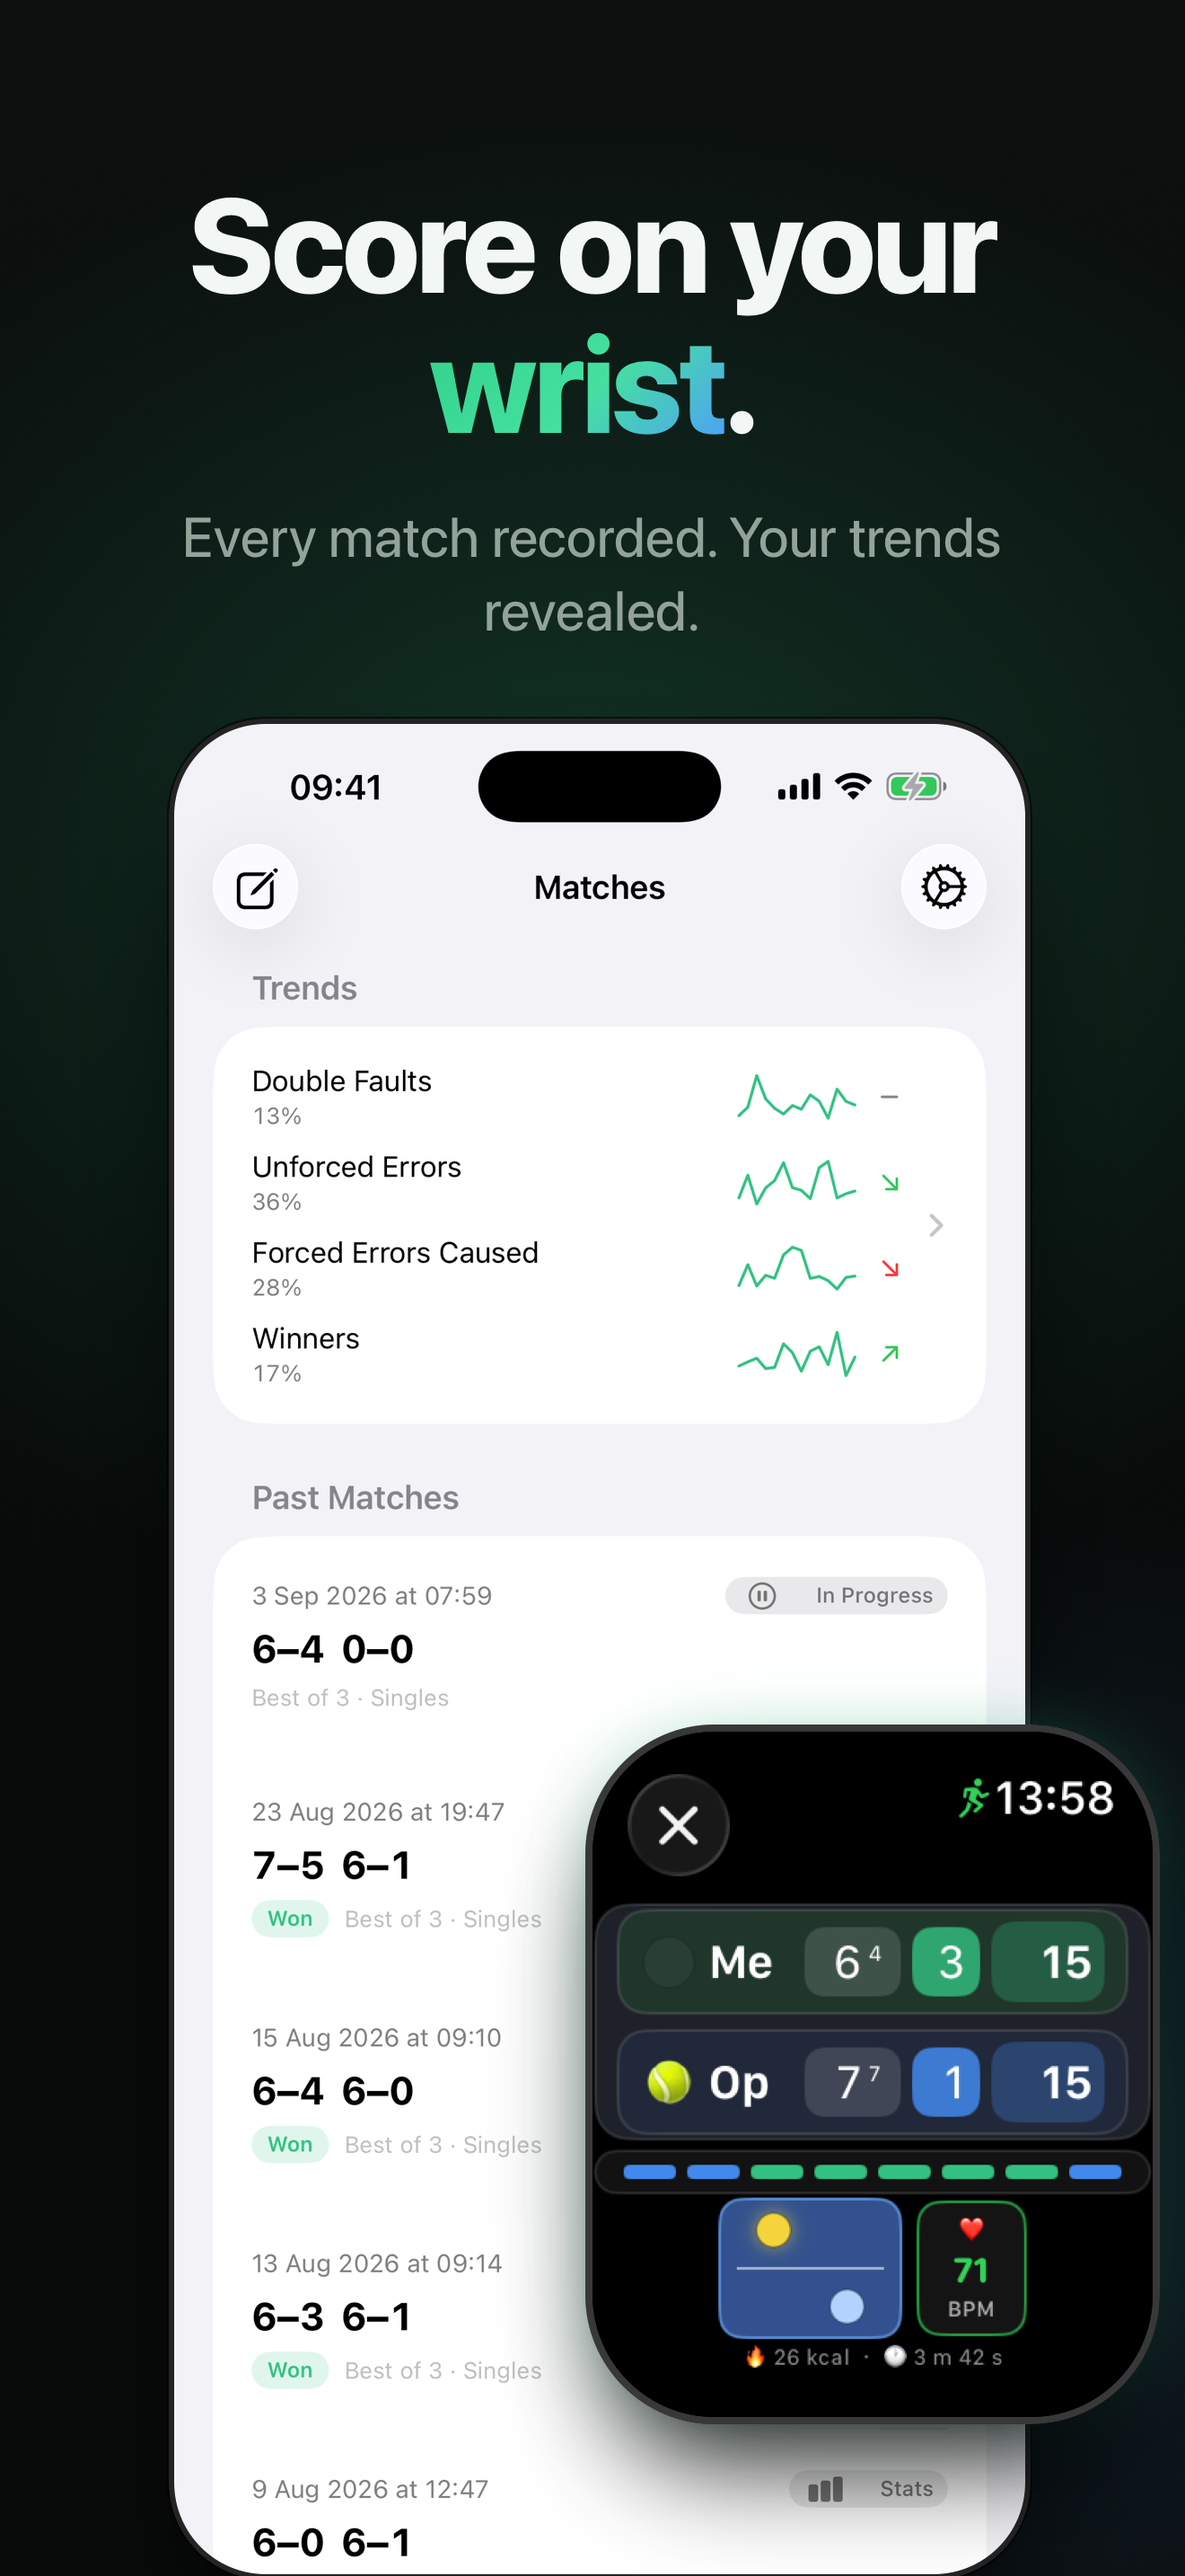
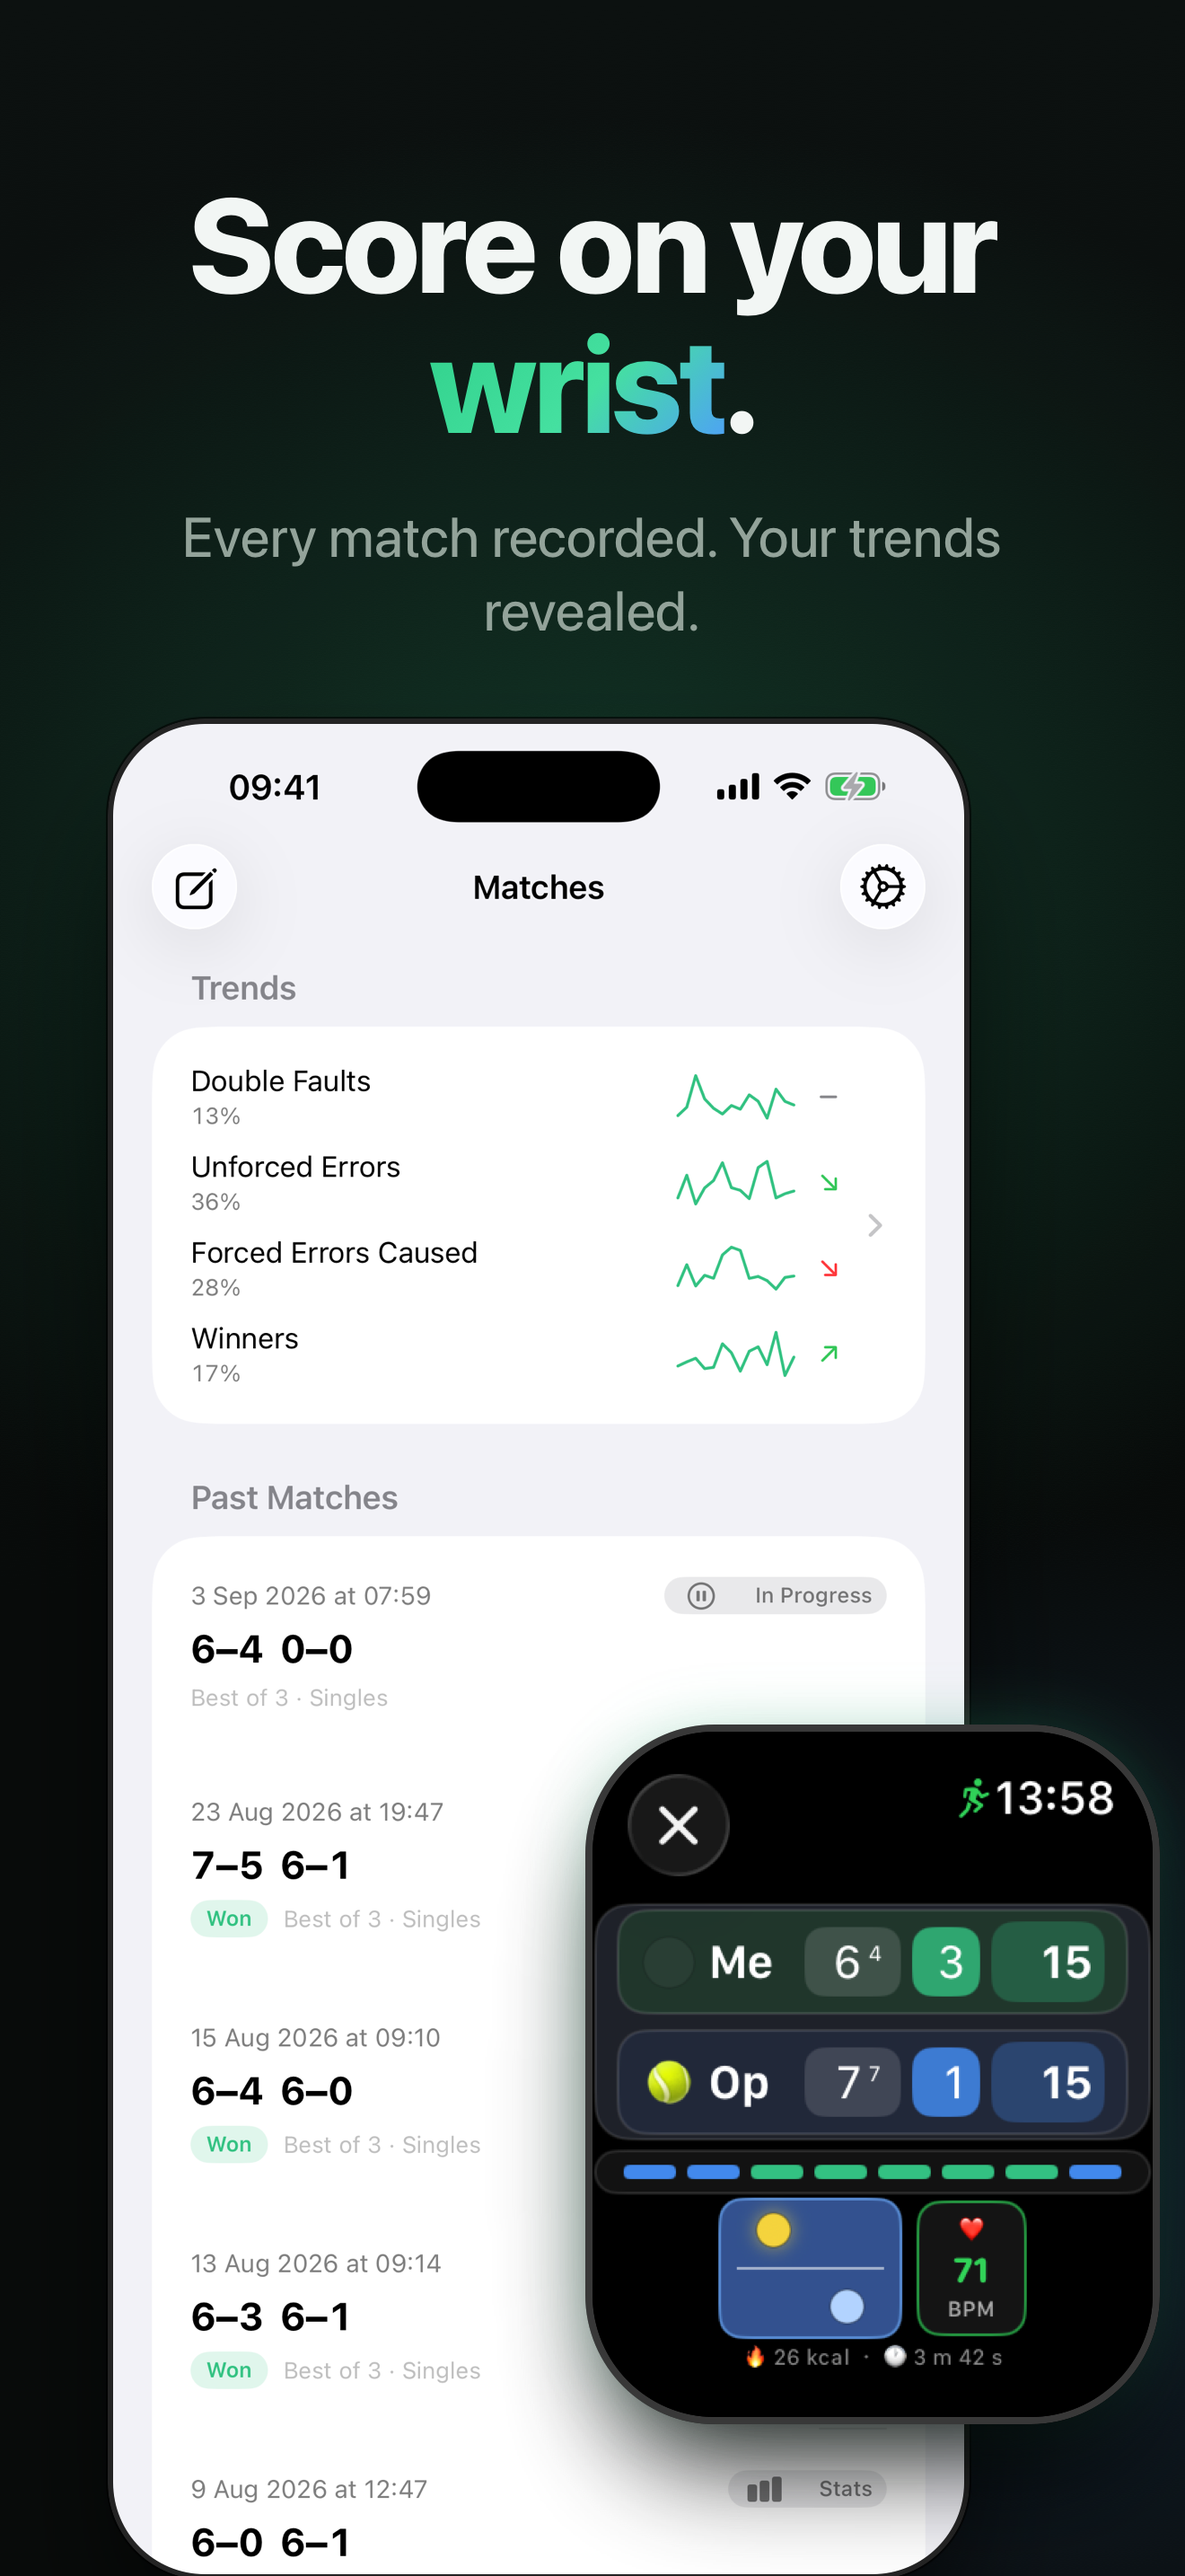
docs: reduce marketing frame margin

diff --git a/docs/app-store-screenshots/marketing/ad-1-watch-iphone.html b/docs/app-store-screenshots/marketing/ad-1-watch-iphone.html
@@ -19,7 +19,7 @@
   .phone-main {
     width: 480px;                /* -> 1043px tall, bottom at 1443: bleeds 9px */
     top: 400px;
-    right: 86px;
+    right: 120px;
   }
   .watch-main {
     width: 320px;                /* -> 391px tall */
